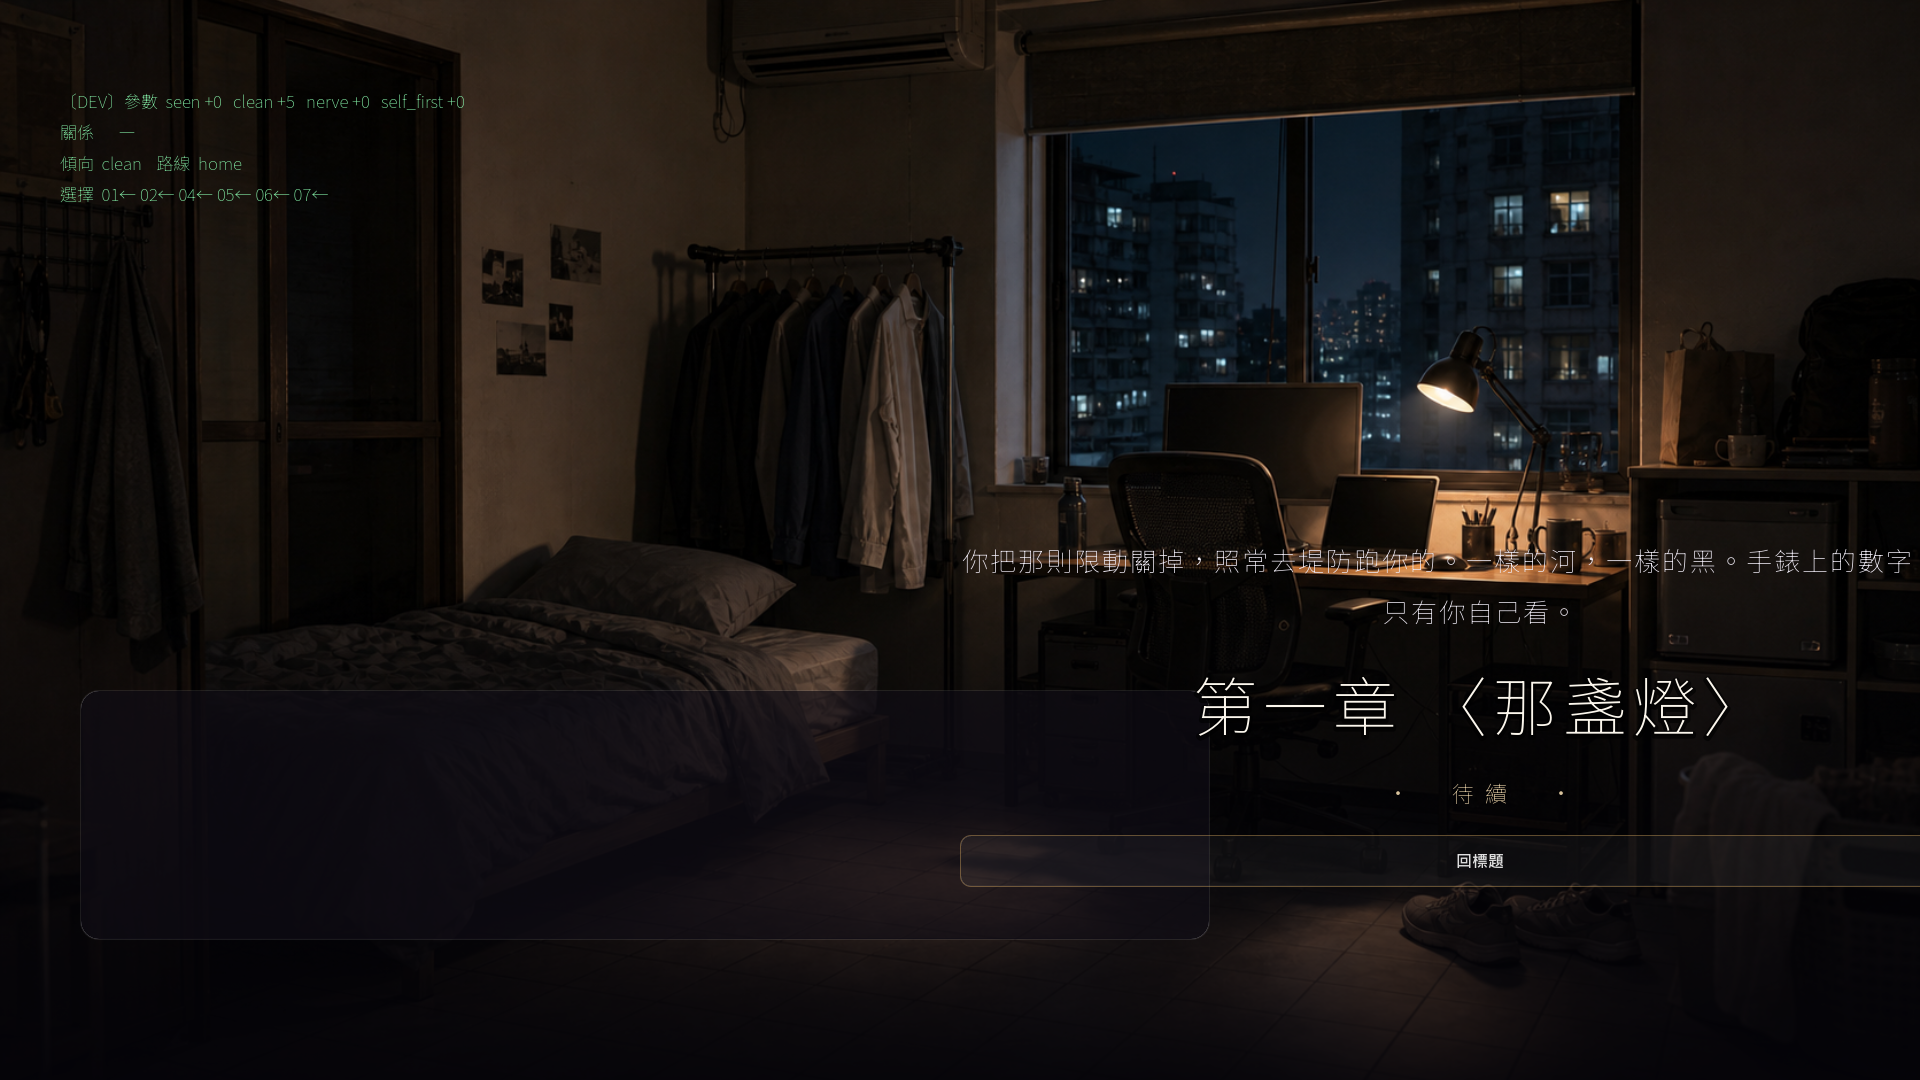
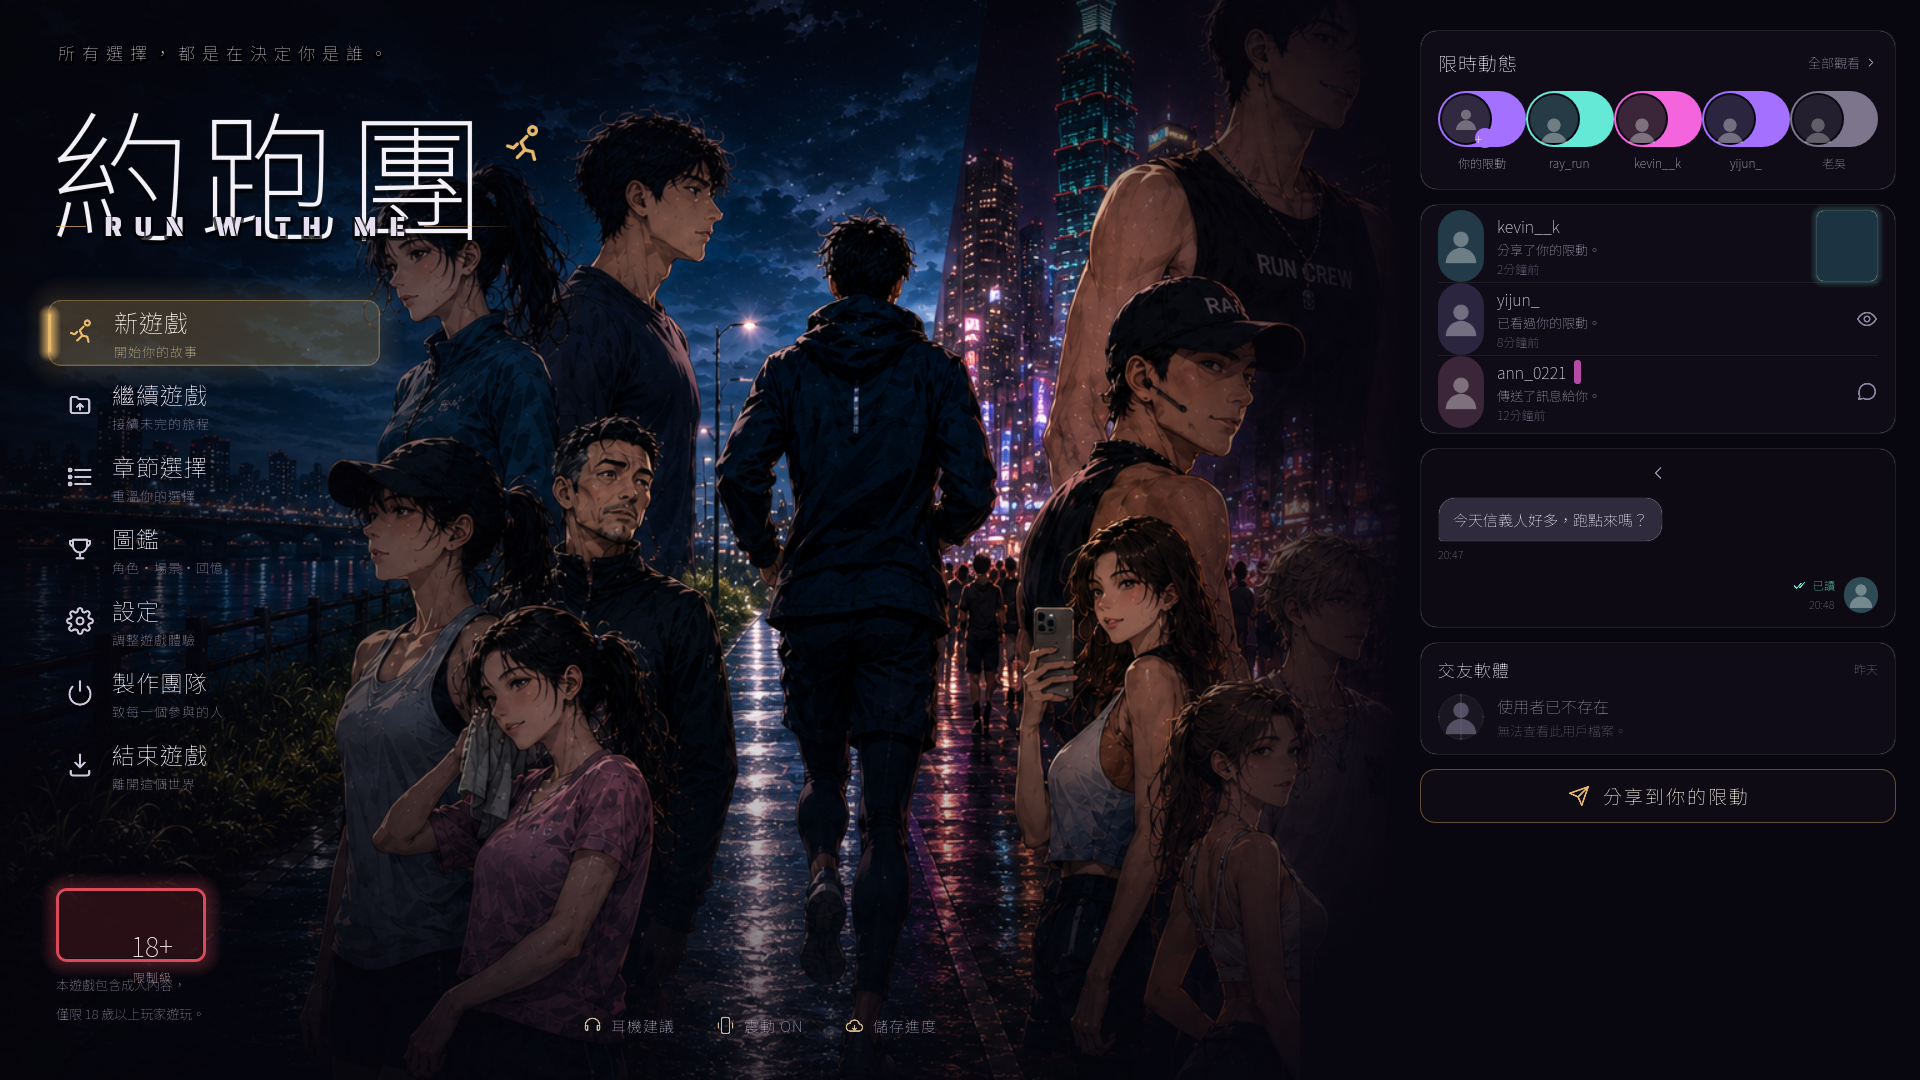
序章打磨 v6 + 角色立體化 + 美術整合 + 選項後果系統
劇本：序章〈那盞燈〉13 場台詞打磨到 v6（去直白／潛台詞／場景銜接，過 Codex 二審）；
keystone「想紅的網紅仔」04 埋／05／13 回收；修時間軸、補合照斷橋、台灣真實感。
角色：02-角色 開場七人立體側寫（表／裡／想要／為了什麼／內耗／破綻）＋群像一致性報告；
凱文改為「不懂拒絕」版、凱文↔怡君關係定錨；移除怡君「舊跑鞋」破綻。
美術：整合 6 背景＋立繪（ray/jason/jason_office/kevin/ann/laowu/laozhou/怡君×2）、
乾淨標題底圖；標題還原卡司海報＋去鬼影。
程式：RunState 隱藏參數＋路線系統、CardRunner 套用選項後果與分支、F1 dev 浮層、開始遊戲.bat。

diff --git a/Run/02-角色.md b/Run/02-角色.md
@@ -33,17 +33,19 @@
 > **製作備忘**：引擎這一榫要補——把 Ray 破綻的「記得有用的、忘掉香菜那種沒用的」**指定發生在立翔身上**：立翔還什麼都不是時對 Ray 講過一件派不上用場的小事，Ray 忘了；等立翔有了流量，Ray 突然全記得他、繞過來噓寒問暖。讓玩家很久以後才涼：Ray 從沒在「聽」立翔，是他變得有用了才被存檔。純動作，不旁白。
 
 ## 凱文（團草）
-**一句話**：跟他講話的人都覺得「他真的記得我」——他記得的其實是「上禮拜你提過一件小事」這個格子，內容隨人替換；而他是真心的，這才是最涼的地方。
+**一句話**：他這輩子最會被人喜歡，學會的卻不是怎麼選一個，是怎麼一個都不讓他失望——等他真的只想對一個人好，才發現自己連「對不起，我有喜歡的人了」這句話都沒講過、不會講。
 
-- **表**：跟他講話，周圍會自動消音。他會接住你隨口提過的小事、看你的眼神像真覺得你有趣，不油、不像套路。在這個人人都缺人看的地方，「靠近凱文會有種被選中的感覺」是最稀有的東西，所以他是團草。
-- **裡**：那套「被選中」是真技術也是真情——他當下真的投入，但他記住的是「噓寒問暖」的格式，不是你。換誰坐到他旁邊，同一句「欸你上次說的那個後來怎樣了」都成立——你以為他特別記得你，其實在他那邊你是模糊的、可代換的。他不是裝得記得，他是真的以為自己記得。
-- **想要**：繼續被需要、每一攤都有人靠過來、維持「大家都想要凱文」的位置。他自己的版本：「我就喜歡跟人相處啊，朋友多一點不好嗎。」
-- **為了什麼（傷口）**：他缺的是一次「他沒去點亮對方、對方也願意留下來」的經驗。出處（作者用，不明寫）：高中某次班遊，他賭氣不主動炒氣氛、安靜坐了一整晚，結果整桌人就真的把他晾在那、沒人來找他——那一晚他學到「不發光就會被晾」，從此他不敢停。他不是怕孤單，是怕「主動去要一個人、然後被晾」。
-- **內耗**：分兩段、都不靠他自我診斷。其一：那個最穩定、待他最好的追隨者，凱文不會在心裡承認「這太廉價」——他會給自己一個漂亮理由（「最近真的太忙」「我們本來就比較像朋友吧」）然後真的少回訊息，他真心相信自己的藉口，只是手很誠實，目光已經飄向剛進團那雙還亮著的眼睛。其二（更狠）：遇到那個從不主動靠過來的人，第一次得換他去要——他把訊息打完又刪掉，排練「欸要不要」排練到第七遍，最後傳出去的是一個貼圖。他這輩子最會搭話，唯獨對這一個，每一句都像在繳一場他從沒考過的試。
-- **破綻**：跟你掏心掏肺講到一半，眼睛會極快地掃過一圈場子，再回到你臉上、笑沒斷。／面對那個沒靠過來的人，他反常地安靜，手指摩挲手機殼，招牌的那句「下次見啦」卡在喉嚨。
-- **怎麼不明講地演**：場一（＝序章第10場）：他在你旁邊講得正掏心，你順著他視線回頭——他正看著剛進來、東張西望的新人；一秒後收回目光，繼續對你笑，笑沒斷、很自然，但你已經看見了。場二（散場）：那個從不主動靠近的人準備走，全場最會搭話的凱文站在原地，手指摩挲手機殼，「欸……」開了個頭，對方已走遠；他把那句吞回去，轉身對最近一個剛望過來的女生立刻亮起來，一樣的姿勢、一樣的笑。場三（反向裂縫，讓玩家覺得「他這樣有點婊」而非「他好可憐」）：那個穩定的追隨者鼓起勇氣約他，凱文邊回「改天啦改天」邊頭也不抬地滑手機——下一秒新人一條訊息進來，他秒回、還配了表情。同一隻手，兩種速度，當著對方的面。
+- **表**：團草。長得好、笑起來眼睛會彎，講話軟、不油，誰湊過來他都接得住，從不擺臉色、從不句點人。約他十次他答應十次，臨時改地點他說好、有人多揪一攤他也去，散場永遠最後一個走——總有人還想多講兩句，他不忍心先抽身。在這個人人都缺人看的場子，「靠近凱文不會被拒絕」是最稀有的溫柔，所以大家都想靠近他。看起來游刃有餘、八面玲瓏。
+- **裡**：那份八面玲瓏是怕，不是爽。他不是在經營誰，是一個都不敢得罪——更準是，受不了任何一張臉在他面前垮下來。「拒絕」兩個字一到嘴邊，他眼前就先浮出對方被推開那一秒的表情，他擋不住，只好說好。被一堆人圍著時他其實是累的、分身乏術的；他不是不想專一，是從沒人教過他，討好每個人和對一個人認真，是兩件相反的事。
+- **想要**：「我就喜歡跟人好好相處啊，能讓人開心不好嗎？」——他要的是每一張臉在他面前都是笑的、沒有一個人因為他而失望。這版本他真心相信，也真以為自己只是人緣好、心軟，不是在惹麻煩。
+- **為了什麼（傷口·作者用，不明寫，絕不演出原生家庭場面）**：他真正缺的，是一次「我讓某個人失望了、對方也沒有就此不要我」的經驗——好讓他敢說一次不。他很早就學會「只要我夠好、夠順，沒人會生我的氣、沒人會走」，把「被喜歡」跟「我是安全的」綁死了。所以他不是貪心，是怕——拒絕一個人＝賭對方會不會因此不要他，這個賭他輸怕了，乾脆永遠不賭、永遠說好。他從沒學過：有些人是你拒絕了、反而更信你。
+- **內耗**：分兩段、都不靠他自我診斷。其一（緋聞怎麼長出來）：那個對他特別好、天天傳訊息的女生，他心裡清楚自己沒那麼喜歡，可每次想說清楚，打開對話框、看到對方上一句還在期待，手指就僵在那——最後傳出去的還是個笑臉貼圖，又拖一天。他不是在吊她，是真的狠不下心讓她當場難看；可這份狠不下心，在她和旁人眼裡，就是「他也對我有意思」。其二（更狠，他第一次想專一）：遇到那個他真的喜歡、卻因為聽過他緋聞而躲他的人，他生平第一次想去跟其他人把話講清楚「我們只是朋友」——訊息打完又刪、刪完又打，排到第七遍，怕的還是那同一張會垮下來的臉。他這輩子最會搭話，唯獨「對不起，我心裡有別人了」這句，他從沒講過，發現自己根本不會講。
+- **破綻**：要說不的那一刻，他的視線會先從對方臉上飄開——飄向地上、手機、旁邊任何一個人——然後那句「不」就變成「啊……再說啦」「改天喔」。配套物件：手機裡好幾條已讀、卻停在「正在輸入…」打了又刪的回覆。
+- **怎麼不明講地演**：場一（＝序章第10場）：紅燈，他跟你並排聊得正暖，旁邊有人插話要拉他去前面，他「喔好、來了」應著、視線卻沒離開你，臉上是「不好意思我也不想走」的為難，笑沒斷、人卻被半推著拖走了——玩家讀到的不是「他在物色下一個」，是「他誰都拒絕不了」。場二（緋聞現場）：那個天天傳訊息的女生當眾挽他手「我們昨天還一起吃飯」，凱文沒甩開也沒承認，只是視線飄開、笑得有點僵「呃對啊……」——他越不忍心拆穿，旁人越坐實那層曖昧。場三（他第一次想推開人）：穩定追他的女生鼓起勇氣約他單獨出去，凱文破天荒想說不——他手指在螢幕上「我那天……」打了三個字，停住，看一眼對方滿臉期待的限動，刪掉，最後傳出去的是「好啊那約一下」，傳完對著手機嘆了一口很長的氣。明明想拒絕，手卻又答應了。
 
-> **製作備忘**：第一課的威力來自玩家**親身被掃視**——至少一場凱文要對著立翔本人掏心到一半、眼睛極快掃過全場再回到他臉上（不是只對抽象的「你」）。第一課上在主角身上，後面立翔自己變成「同一隻手兩種速度」的人時，回收才有體感。序章 Opening.gd 場10 已寫成「不解釋、給選擇」，與本稿一致。
+> **緋聞線（怎麼長出來、她怎麼因此不敢靠近——全用事件，不旁白）**：起點都是「不忍心」——新人問堤防路線，他不只回、還說「不然我帶你跑一次」（他對誰都這樣，對方卻截圖發限動「凱文要帶我跑欸」）；天天傳訊息的女生他不忍心已讀不回、每次回個貼圖，被截圖「他都會回我耶」；散場他總最後走、誰想聊他都奉陪。三件單看都只是心軟，湊在一起就有了形狀。傳開：超商攤有人半開玩笑「凱文你到底跟幾個在曖昧？」全桌笑，他也只能跟著笑、沒否認（否認＝當眾打誰的臉，他做不到）——「中央空調」的名號就這樣坐實、從這攤傳到下一攤。**他喜歡的人怎麼因此不敢靠近**：她原本願意跟他多講兩句，某天聽見隔壁桌兩個女生對帳「他也約過我」「我也是欸」，當場把到嘴邊的話收回去；後來凱文難得主動傳訊息、語氣明顯跟對別人不一樣，她盯著看很久，回了句淡淡的「你不是對每個人都這樣？」就把對話關掉——不是她不心動，是她沒辦法賭。最毒的一筆：凱文想證明這次不一樣，可他能拿出來的「證據」全是他過去對誰都好的同一套（記得你提過的事、散場等你、傳訊息關心）——他越想證明專一，看起來越像又一次中央空調。先前的好心，全變成了不利於他的證詞。
+
+> **製作備忘**：① **跟 Ray 區隔**——Ray 主動經營魅力、為了當「全場中心的人物」；凱文被動、軟、根本沒在經營，麻煩是送上門他擋不掉：一個的魅力是武器，一個的魅力是他卸不下的負擔。② 這版**把凱文移出「付出換留下」家族**（原本跟 Ray／Ann 撞引擎）——他的恐懼是「不忍心讓任何人在我面前失望」，獨一份。③ 「中央空調」是**別人給的名聲**、不是他的真面目（裡頭只是軟），這個落差就是他的悲劇。④ 全篇只留一處「他這輩子最會被人喜歡」（在一句話），其餘交給事件、不替玩家反覆總結。⑤ 序章 Opening.gd 場10 已同步改成這版（被叫走時的為難，不是掃全場偵查）。⑥ **關係定錨**：凱文↔怡君＝曖昧緋聞＋**肉體關係**，但**不是情侶**——怡君只是來紓壓，看穿他中央空調也不排斥、頂多抱怨兩句（見怡君）。⑦ 凱文**真心喜歡、卻因名聲不敢靠近他的「那個人」另有其人（待定，非怡君）**——緋聞線裡那個「不敢賭」的她＝這個待定對象，不要寫成怡君。⑧ R18：情慾與曖昧維持暗示／淡出，不寫露骨（依 README 鐵律）。
 
 ## 怡君
 **一句話**：她能在三秒內掃出全場誰在唬爛、誰快撐不住——這本事救過很多人的命，唯獨在凱文那種假溫柔面前，她看得一清二楚，還是抬腳走了過去：看穿，從來不等於不想要。
@@ -53,10 +55,12 @@
 - **想要**：把體態和那段堤防路線守住——這是她生活裡唯一還準時、還做得到、出力就算數的事。睡眠、感情、班表全是亂的，這條路線不亂。至於來信義？她給自己的說法是「反正路線要跑，順路看看而已」——連「想認識個不錯的人」這念頭，她都不肯對自己明說，只肯停在「順路」。
 - **為了什麼（傷口）**：她真正缺的，是被一個人照原樣看一次——不是看她妝過、整理過的樣子，是看她下夜班、時差爆、識別證還掛著、眼睛全是血絲那個樣子，還想留下來。傷口在於：她整夜接住別人的崩潰、宣告別人的死亡、安撫到天亮的家屬，散場後，沒人接住她。所以下夜班回到家，她不是先躺下——是先站上體重計，再換鞋出門跑。那是當天唯一一件她出了力、就會準時有回報的事。
 - **內耗**：紅燈路口凱文湊過來那一刻，她腦子裡兩個她在吵：一個冷靜得像在交班——「中央空調，三分鐘後會貼下一個，別當真」；另一個累到沒力氣的她回嘴——「我知道啊。可是就讓我享受這三分鐘被當回事，會死喔？」她一邊鄙視自己怎麼跟那些傻女生一個樣，一邊腳又移不開。綠燈了。她抬腳的時候，比腦子裡那個冷靜的她，慢了半秒。
-- **破綻**：妝化得再精緻，指甲還是剪到極短、一點不能留——那是信義版全身行頭蓋不掉、洗不乾淨的本業痕跡。信義場她從頭到腳都換了新的，腳上偏偏還是那雙舊到發灰的跑鞋——她只有一雙。還有：去信義前，她會傳訊息問立翔「我這樣可以嗎」——為了別的男人打扮，卻把這句最沒設防的話，丟給那個她清楚不會追她的人。
+- **破綻**：妝化得再精緻，指甲還是剪到極短、一點不能留——那是信義版全身行頭蓋不掉、洗不乾淨的本業痕跡；妝再好，眼底那點累也遮不掉。還有：去信義前，她會傳訊息問立翔「我這樣可以嗎」——為了別的男人打扮，卻把這句最沒設防的話，丟給那個她清楚不會追她的人。
 - **怎麼不明講地演**：第11場跑完，她交代立翔「跑完先閃，別被拉去拍照」，語氣像在報逃生路線——把全場看得一清二楚的人。下一場路口凱文湊過來隨口一句「堤防晚上是不是都沒人」，她明顯頓了半拍才接話，跟剛剛那個冷靜指揮的她判若兩人；綠燈一亮凱文立刻貼向下一個，鏡頭帶她回頭看那背影——什麼都看懂了，卻沒收回剛剛那半拍的軟。後面跟立翔約酒報戰況，她本來要笑著虧自己，講到一半卡住了：「他那種人就……」沒接完，低頭把凱文那條已讀沒回的訊息，又往上滑了一次。
 
-> **製作備忘**：不旁白「她明知是假的還是要」；讓那雙舊跑鞋、那半拍頓、那句沒接完的話、那一次往上滑，自己說。她總結不了自己，才更痛。她＝序章 03/11 堤防超車的瘦女生；對立翔是戰友（非戀人）、互當感情軍師——這段最真，所以是後面引擎最好的燃料（會用最正當的方式一度一度涼掉）。
+> **製作備忘**：不旁白「她明知是假的還是要」；讓那截極短的指甲、那半拍頓、那句沒接完的話、那一次往上滑，自己說。她總結不了自己，才更痛。她＝序章 03/11 堤防超車的瘦女生；對立翔是戰友（非戀人）、互當感情軍師——這段最真，所以是後面引擎最好的燃料（會用最正當的方式一度一度涼掉）。
+>
+> **關係定錨（凱文）**：怡君↔凱文＝曖昧緋聞＋**肉體關係**，但**不是情侶**——她很清楚自己只是來紓壓，看穿他中央空調、也不排斥，頂多跟立翔抱怨兩句。她不是在等他、不是在爭，她要的不是凱文（凱文真心喜歡的另有其人、不是她）；她要的是「累到一個程度，明知是假的溫柔也比沒有好」那一口。**寫法鐵律**：別把她寫成痴等／吃醋的女生——她比誰都看得開，痛的是「看得這麼清還是需要」這件事本身。R18：維持暗示／淡出，不寫露骨。「往上滑已讀沒回」那拍＝她惱、卻不肯承認自己在意，不是痴情。
 
 ## Ann
 **一句話**：她把每個人都顧得好好的，好讓沒人發現她才是最需要有人顧的那個——揪宵夜不是大方，是怕散場後只剩自己一個人開車回家。
@@ -145,22 +149,22 @@
 |---|---|---|---|
 | 立翔 | 我不重要，有我沒我都一樣 | 被一個人放在心上 | 把手機翻過來蓋桌上／留那盞燈 |
 | Ray | 我沒在發揮功能時，沒人要我 | 此刻全場中心是我 | 背後那隻手橫過手機 |
-| 凱文 | 我沒主動發光、就會被晾 | 被選中的感覺 | 同一隻手兩種速度 |
-| 怡君 | 沒人照我原樣看一次 | 被照原樣看一次 | 紅燈抬腳慢半拍／唯一那雙舊跑鞋 |
+| 凱文 | 我不忍心讓任何一張臉在我面前垮下來 | 沒有人因為我而失望 | 要說不時視線飄開／打了又刪的回覆 |
+| 怡君 | 沒人照我原樣看一次 | 被照原樣看一次 | 紅燈抬腳慢半拍／指甲剪到極短 |
 | Ann | 不用先有用、也有人會留 | 少不了的那個 | 多買那一罐前頓半秒 |
 | Jason | 不靠演、沒人覺得我夠好 | 開會第一個被想到 | 鏡子前關水龍頭站幾秒 |
 | 老吳 | 我那麼想被接住、結果不算數 |（反向）拒絕被看見、卻每週準時回到邊邊 | 繫早就繫好的鞋帶 |
 
-**互鎖（六組榫頭）**：引擎(Ray↔立翔)＝**最鬆、要補**（見 Ray 製作備忘：把「忘掉香菜／有用才存檔」落在立翔身上）；第一課(凱文)＝漂亮，但要上在立翔本人身上；戰友(怡君)＝情感地基，「哈哈」那場拿這條當祭品；暖對照(Ann)＝Ray 的乾淨素人版；白天對照(Jason)＝最聰明的一榫，市府站「先掃手」是全卡司最利的潛台詞；沒走的路(老吳)＝主題的「未來完成式」，那把不是他的傘是這台冷機器裡唯一一口氣。
+**互鎖（六組榫頭）**：引擎(Ray↔立翔)＝**最鬆、要補**（見 Ray 製作備忘：把「忘掉香菜／有用才存檔」落在立翔身上）；第一課(凱文)＝漂亮，但要上在立翔本人身上（被叫走時的「為難」、不是掃場偵查）；戰友(怡君)＝情感地基，「哈哈」那場拿這條當祭品；暖對照(Ann)＝Ray 的乾淨素人版；白天對照(Jason)＝最聰明的一榫，市府站「先掃手」是全卡司最利的潛台詞；沒走的路(老吳)＝主題的「未來完成式」，那把不是他的傘是這台冷機器裡唯一一口氣。
 
-**塌陷風險（全用動作解，不靠換台詞）**：① 立翔／老吳／半個 Ray 同屬「不算數」家族——靠時間軸（進行式／完成式／外包給數字）拉開，**別讓老吳用金句替立翔總結命運**；② Ray／Ann／凱文同屬「付出換留下」家族——靠四種恐懼底色（怕沒功能／怕太晚／怕被晾）＋各自專屬動作分開，動機句別趨同；③ 全卡司沒有人是向外攻擊型，全是「向內塌陷＋正當自利」（守住鐵律），節奏要靠凱文場三、Jason 那一掃這種「有點婊／有點冷」的尖點打破綿延的低溫。
+**塌陷風險（全用動作解，不靠換台詞）**：① 立翔／老吳／半個 Ray 同屬「不算數」家族——靠時間軸（進行式／完成式／外包給數字）拉開，**別讓老吳用金句替立翔總結命運**；② **Ray／Ann 同屬「付出換留下」家族**（怕沒功能／怕太晚）——凱文已從這家族移出（改為「不忍心讓人失望」、不會拒絕），三人恐懼各異、不再撞引擎；Ray／Ann 仍靠專屬動作分開、動機句別趨同；③ 全卡司沒有人是向外攻擊型，全是「向內塌陷＋正當自利」（守住鐵律），節奏要靠凱文緋聞被當眾虧那種「有點好笑」、Jason 那一掃這種「有點冷」的尖點打破綿延的低溫。
 
 ---
 ## ── 開場小團名單（第一章｜小而真的階段） ──
 > 跑團最早只有十幾人，是真的好的那個階段（見 [01](01-世界觀與主線.md)）。開場讓玩家認得的核心是這 6 個；其餘人留到「團長大」再一個個冒出來，別擠進這個小而暖的開場。炎上、塞爆徒步區、撞人不道歉那些，是後面成長的代價，不是現在。
 
 1. **Ray（團長）** — 場子的中心，半真心半算計，自己舉著手機拍／po。但真的會接住人、叫得出你名字。玩家對他從鄙視（網紅仔）到不知不覺被暖到。引擎的另一端。
-2. **凱文（團草）** — 人少的小團裡「被選中感」更致命。立翔第一次嚐到被看見就是他給的；也是他把怡君捲進渣男那圈。
+2. **凱文（團草）** — 不懂拒絕的帥哥：來者不拒、緋聞纏身（卻不是渣，是軟、不忍心）。立翔第一次嚐到被看見就是他給的；而他那身「中央空調」名聲，之後會反噬他自己（見立體側寫）。
 3. **怡君** — 立翔的戰友（非戀人）：一起入坑的小白兔 → 互當感情軍師。
 4. **老吳** — 那條沒走的路：只想乾淨跑完回家，總坐邊邊，偶爾一句很準。乾淨線的化身。
 5. **Ann** — 小團的暖心臟：真心把大家當朋友。她越真，等團變大變淺，失望越痛。

diff --git a/Run/art-refs/README.md b/Run/art-refs/README.md
@@ -1,0 +1,29 @@
+# Art References
+
+## Characters
+
+- `characters/ray/ray_final.png`
+- `characters/kevin/kevin_final.png`
+- `characters/ann/ann_final.png`
+- `characters/jason/jason_running_final.png`
+- `characters/jason/jason_office_final.png`
+- `characters/yijun/yijun_embankment_final.png`
+- `characters/yijun/yijun_xinyi_final.png`
+- `characters/laowu/laowu_final.png`
+- `characters/laozhou/laozhou_final.png`
+
+## Scenes
+
+- `scenes/office_final.png`
+- `scenes/embankment_final.png`
+- `scenes/apartment_final.png`
+- `scenes/pantry_final.png`
+- `scenes/xinyi_final.png`
+- `scenes/store_final.png`
+- `scenes/title_bg_clean_final.png`
+
+## Original References
+
+- `scenes/original_refs/main_room_bg_reference.png`
+- `scenes/original_refs/title_bg_reference.png`
+- `characters/yijun/original_refs/yijun_character_transparent_v3_hard.png`

diff --git a/Run/08-美術工單.md b/Run/08-美術工單.md
@@ -78,7 +78,7 @@
 ### CH-05 `yijun_xinyi` — 怡君（信義版）
 - **一句話**：同一個人（臉／身形對齊 `yijun_embankment`），**打扮過**的版本——一個累壞的聰明女人，鼓起力氣把自己整理好出門。
 - **改變**：頭髮整理過、上了點妝把疲憊遮掉、合身好看的運動套裝、站姿挺一點、手機常拿在手上。
-- **破綻（鐵律，一定要留）**：妝再好，**眼底那點累遮不掉**；或——她只有一雙鞋，所以**還是那雙舊跑鞋**。這個破綻就是心疼所在。
+- **破綻（鐵律，一定要留）**：妝再好，**眼底那點累遮不掉**；或那截**剪到極短的指甲**（急診本業洗不掉的痕跡）。這個破綻就是心疼所在。（「只有一雙舊跑鞋」設定已移除。）
 - **別畫成**：虛榮／膚淺／換了個人。要讓人**心疼又可愛**，看得出是「同一個她，努力了一下」。
 
 ### CH-06 `laowu` — 老吳（P2，已補 v1）